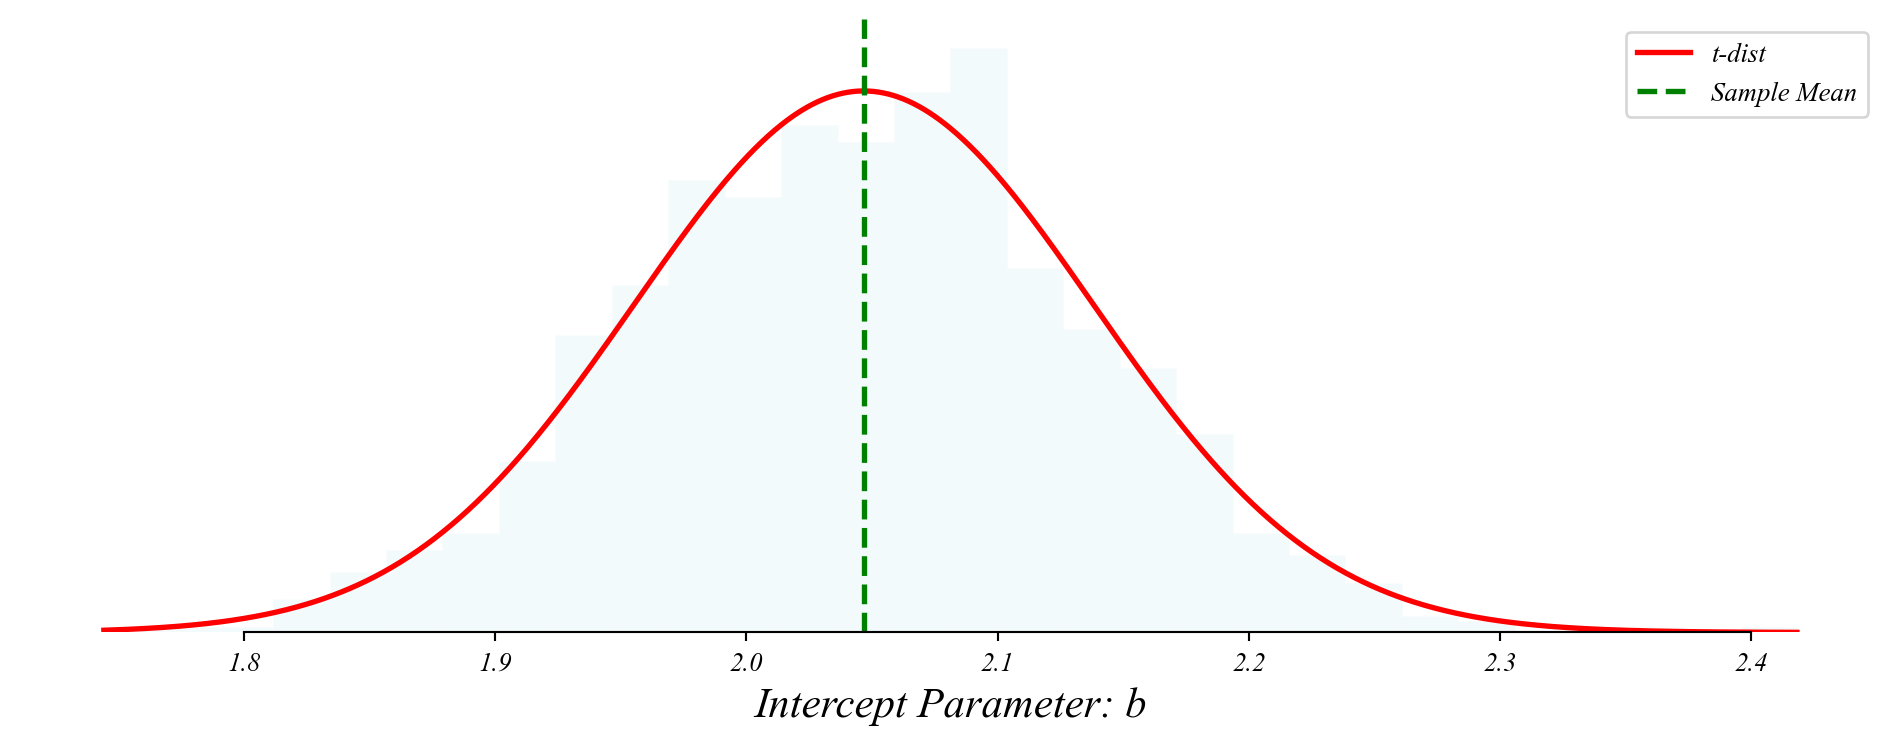
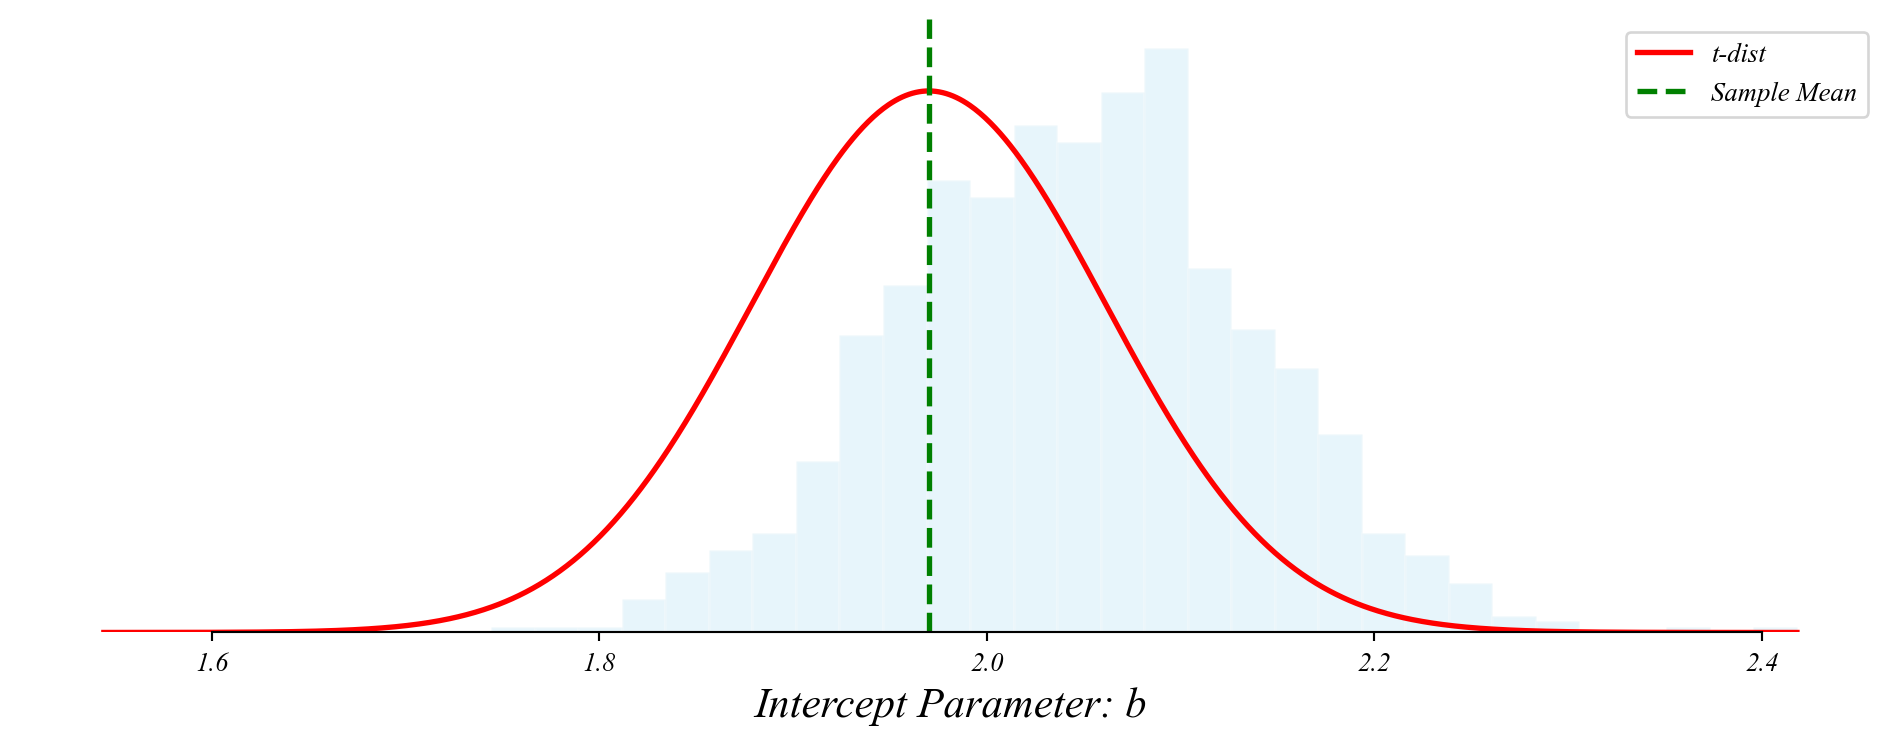
more small updates to the slides

diff --git a/ECON_0150/Slides/Part_4_2.html b/ECON_0150/Slides/Part_4_2.html
@@ -230,7 +230,7 @@ Lets start with a model with no x ( basically: x=0 ).
 <p>This simple model look like: <span class="math inline">\(y=b\)</span>.</p>
 <div class="fragment">
 <p><em>&gt; there’s only an incercept term!</em></p>
-<div id="01a6db52" class="cell" data-execution_count="1">
+<div id="252b6e6a" class="cell" data-execution_count="1">
 <div class="cell-output cell-output-display">
 <div class="quarto-figure quarto-figure-center">
 <figure>
@@ -249,7 +249,7 @@ Lets start with a model with no x ( basically: x=0 ).
 <p class="subheader">
 The sample mean minimizes the MSE.
 </p>
-<div id="a4a1fd6b" class="cell" data-execution_count="2">
+<div id="f4ed7cac" class="cell" data-execution_count="2">
 <div class="cell-output cell-output-display">
 <div class="quarto-figure quarto-figure-center">
 <figure>
@@ -267,7 +267,7 @@ The sample mean minimizes the MSE.
 <p class="subheader">
 Like before, if we take many samples, we get slighly different means and slighly different fits.
 </p>
-<div id="d69c6f92" class="cell" data-execution_count="3">
+<div id="ccd42e87" class="cell" data-execution_count="3">
 <div class="cell-output cell-output-display">
 <div class="quarto-figure quarto-figure-center">
 <figure>
@@ -282,7 +282,7 @@ Like before, if we take many samples, we get slighly different means and slighly
 <p class="subheader">
 The mean follows a normal distribution centered on the true mean
 </p>
-<div id="0bd09790" class="cell" data-execution_count="4">
+<div id="1ed78ed8" class="cell" data-execution_count="4">
 <div class="cell-output cell-output-display">
 <div class="quarto-figure quarto-figure-center">
 <figure>
@@ -291,14 +291,13 @@ The mean follows a normal distribution centered on the true mean
 </div>
 </div>
 </div>
-<p><em>&gt; so if i were to ask you the probability of getting this sample mean under the standard null of b=0, what would you say?</em></p>
 </section>
 <section id="distribution-around-the-sample-mean" class="slide level2">
 <h2>Distribution Around the Sample Mean</h2>
 <p class="subheader">
 We don’t know the true mean, just our sample mean. Center the distribution there.
 </p>
-<div id="e5accee2" class="cell" data-execution_count="5">
+<div id="48cf60d8" class="cell" data-execution_count="5">
 <div class="cell-output cell-output-display">
 <div class="quarto-figure quarto-figure-center">
 <figure>
@@ -307,14 +306,17 @@ We don’t know the true mean, just our sample mean. Center the distribution the
 </div>
 </div>
 </div>
+<p><em>&gt; lets say our sample mean was 1.97</em></p>
+<div class="fragment">
 <p><em>&gt; so if i were to ask you the probability of getting this sample mean under the standard null of b=0, what would you say?</em></p>
+</div>
 </section>
 <section id="finding-p-values-in-the-t-distribution" class="slide level2">
 <h2>Finding p-values in the t-distribution</h2>
 <p class="subheader">
 Testing whether the mean is significantly different from zero
 </p>
-<div id="0ec3373f" class="cell" data-execution_count="6">
+<div id="850d623f" class="cell" data-execution_count="6">
 <div class="cell-output cell-output-display">
 <div class="quarto-figure quarto-figure-center">
 <figure>
@@ -335,7 +337,7 @@ Testing whether the mean is significantly different from zero
 <p class="subheader">
 A t-test a linear model with only an intercept: <span class="math inline">\(y = \beta_0 + \epsilon\)</span>
 </p>
-<div id="d995690d" class="cell" data-execution_count="7">
+<div id="3e21d687" class="cell" data-execution_count="7">
 <div class="cell-output cell-output-display">
 <div class="quarto-figure quarto-figure-center">
 <figure>
@@ -392,7 +394,7 @@ Are wait times different in the morning and afternoon?
 <p class="subheader">
 Let’s introduce a (potential) relationship: <span class="math inline">\(y = \beta_0 + \beta_1 x + \epsilon\)</span>
 </p>
-<div id="4884ac7c" class="cell" data-execution_count="8">
+<div id="c0e92c80" class="cell" data-execution_count="8">
 <div class="cell-output cell-output-display">
 <div class="quarto-figure quarto-figure-center">
 <figure>
@@ -407,7 +409,7 @@ Let’s introduce a (potential) relationship: <span class="math inline">\(y = \b
 <p class="subheader">
 Let’s introduce a (potential) relationship: <span class="math inline">\(y = \beta_0 + \beta_1 x + \epsilon\)</span>
 </p>
-<div id="c92f97b7" class="cell" data-execution_count="9">
+<div id="4a7031c4" class="cell" data-execution_count="9">
 <div class="cell-output cell-output-display">
 <div class="quarto-figure quarto-figure-center">
 <figure>
@@ -422,7 +424,7 @@ Let’s introduce a (potential) relationship: <span class="math inline">\(y = \b
 <p class="subheader">
 Let’s introduce a (potential) relationship: <span class="math inline">\(y = \beta_0 + \beta_1 x + \epsilon\)</span>
 </p>
-<div id="622c96fc" class="cell" data-execution_count="10">
+<div id="9f56b038" class="cell" data-execution_count="10">
 <div class="cell-output cell-output-display">
 <div class="quarto-figure quarto-figure-center">
 <figure>
@@ -449,7 +451,7 @@ Let’s introduce a (potential) relationship: <span class="math inline">\(y = \b
 <p class="subheader">
 Like before, if we take many samples, we get slighly different slopes and slighly different fits.
 </p>
-<div id="143c6d77" class="cell" data-execution_count="11">
+<div id="a341c5df" class="cell" data-execution_count="11">
 <div class="cell-output cell-output-display">
 <div class="quarto-figure quarto-figure-center">
 <figure>
@@ -464,7 +466,7 @@ Like before, if we take many samples, we get slighly different slopes and slighl
 <p class="subheader">
 The slope coefficient follows a t-distribution centered on the true slope
 </p>
-<div id="0fa2788f" class="cell" data-execution_count="12">
+<div id="50cc812a" class="cell" data-execution_count="12">
 <div class="cell-output cell-output-display">
 <div class="quarto-figure quarto-figure-center">
 <figure>
@@ -485,7 +487,7 @@ The slope coefficient follows a t-distribution centered on the true slope
 <p class="subheader">
 The slope coefficient follows a t-distribution centered on the true slope
 </p>
-<div id="ac29de81" class="cell" data-execution_count="13">
+<div id="1d03cddd" class="cell" data-execution_count="13">
 <div class="cell-output cell-output-display">
 <div class="quarto-figure quarto-figure-center">
 <figure>
@@ -507,6 +509,7 @@ The slope coefficient follows a t-distribution centered on the true slope
 <p class="subheader">
 Does wait time change throughout the day?
 </p>
+<p><em>&gt; load imports</em></p>
 <div class="sourceCode" id="cb5"><pre class="sourceCode numberSource python number-lines code-with-copy"><code class="sourceCode python"><span id="cb5-1"><a href=""></a><span class="im">import</span> pandas <span class="im">as</span> pd</span>
 <span id="cb5-2"><a href=""></a><span class="im">import</span> statsmodels.api <span class="im">as</span> sm</span>
 <span id="cb5-3"><a href=""></a><span class="im">import</span> numpy <span class="im">as</span> np</span></code><button title="Copy to Clipboard" class="code-copy-button"><i class="bi"></i></button></pre></div>
@@ -579,7 +582,7 @@ Does wait time change throughout the day?
 <span id="cb11-3"><a href=""></a><span class="bu">print</span>(model.summary().tables[<span class="dv">1</span>])</span></code><button title="Copy to Clipboard" class="code-copy-button"><i class="bi"></i></button></pre></div>
 </div>
 <div class="fragment">
-<div id="1d2a140f" class="cell" data-execution_count="14">
+<div id="a9b18d09" class="cell" data-execution_count="14">
 <div class="cell-output cell-output-stdout">
 <pre><code>======================================================================================
                          coef    std err          t      P&gt;|t|      [0.025      0.975]
@@ -657,30 +660,21 @@ Regression is the workhorse of empirical economics
 <p class="subheader">
 Connecting t-tests to regression
 </p>
+<p><br></p>
 <div class="fragment">
-<ol type="1">
-<li><strong>Unified Framework:</strong> T-tests and regression are part of the same general linear model framework.</li>
-</ol>
+<p><strong>Unified Framework:</strong> <em>T-tests and regression are part of the same general linear model framework.</em></p>
 </div>
 <div class="fragment">
-<ol start="2" type="1">
-<li><strong>Continuous Predictors:</strong> Regression extends t-tests by allowing continuous predictors.</li>
-</ol>
+<p><strong>Continuous Predictors:</strong> <em>Regression extends t-tests by allowing continuous predictors.</em></p>
 </div>
 <div class="fragment">
-<ol start="3" type="1">
-<li><strong>Multiple Variables:</strong> Regression lets us include multiple predictors and control variables.</li>
-</ol>
+<p><strong>Multiple Variables:</strong> <em>Regression lets us include multiple predictors and control variables.</em></p>
 </div>
 <div class="fragment">
-<ol start="4" type="1">
-<li><strong>Same Interpretation:</strong> The p-values have the same interpretation: probability of seeing results this extreme if the null is true.</li>
-</ol>
+<p><strong>Same Interpretation:</strong> <em>The p-values have the same interpretation: probability of seeing results this extreme if the null is true.</em></p>
 </div>
 <div class="fragment">
-<ol start="5" type="1">
-<li><strong>Same Distribution:</strong> Coefficient estimates follow t-distributions centered on true values.</li>
-</ol>
+<p><strong>Same Distribution:</strong> <em>Coefficient estimates follow t-distributions centered on true values.</em></p>
 </div>
 </section>
 <section id="looking-forward" class="slide level2">
